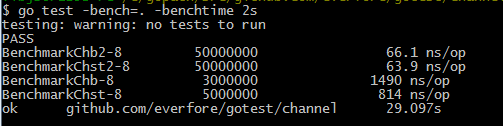
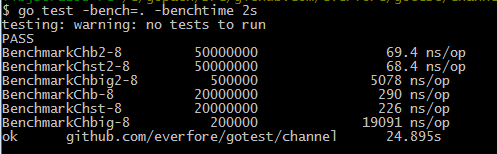
"chan"

Changed region(s): [[0.0, 0.0, 1.0, 0.9524], [0.7243, 0.2857, 0.9356, 0.9286], [0.0302, 0.0, 0.1811, 0.0238]]

diff --git a/channel/ch_test.go b/channel/ch_test.go
@@ -7,15 +7,14 @@ import (
 var (
 	chb   chan bool
 	chst  chan struct{}
-	chbig chan [1 << 17]byte
-	bigbs [1 << 17]byte
+	chbig chan [1 << 15]byte
+	bigbs [1 << 15]byte
 )
 
 func init() {
 	chb = make(chan bool, 100)
 	chst = make(chan struct{}, 100)
-	chbig = make(chan [1 << 17]byte, 100)
-	// bigbs = make([]byte, 1<<20)
+	chbig = make(chan [1 << 15]byte, 100)
 }
 
 func BenchmarkChb2(b *testing.B) {
@@ -61,5 +60,18 @@ func BenchmarkChst(b *testing.B) {
 	b.StartTimer()
 	for i := 0; i < b.N; i++ {
 		chst <- struct{}{}
+	}
+}
+
+func BenchmarkChbig(b *testing.B) {
+	b.StopTimer()
+	go func() {
+		for i := 0; i < b.N; i++ {
+			_ = <-chbig
+		}
+	}()
+	b.StartTimer()
+	for i := 0; i < b.N; i++ {
+		chbig <- bigbs
 	}
 }

diff --git a/README.md b/README.md
@@ -26,9 +26,12 @@
 ## channel
 
 	chan bool
+
 	chan struct{}
 
-![BS_bench](https://raw.githubusercontent.com/everfore/gotest/master/b2s/test.png "BS Benchmark")
+	chan [1<<15]byte     channel element must be less than 64kb.
+
+![chan_bench](https://raw.githubusercontent.com/everfore/gotest/master/channel/chan.png "chan Benchmark")
 
 ##	download
 
